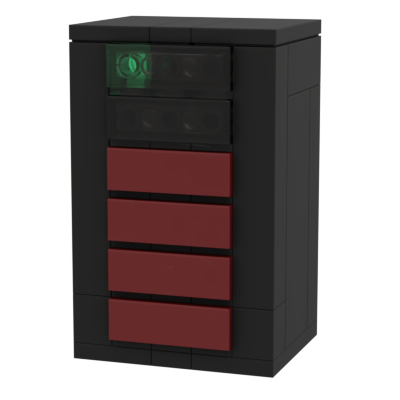
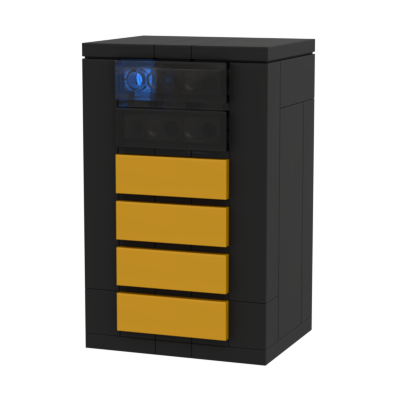
added items, pics for each engine modified funcs

Changed region(s): [[0.15, 0.03, 0.81, 0.96], [0.54, 0.15, 0.57, 0.18], [0.48, 0.15, 0.51, 0.18]]

diff --git a/scripts/thething.js b/scripts/thething.js
@@ -8,7 +8,7 @@
 // array of images pulled from a JSON input.
 
 // ---------- START OF JSON CONSTANT DATA 
-aImages=[{"fqdn":"msx4182lv.virtcomp.net","location":"DC1","engine_type":"virtualserver","storage":10,"storage_used":4.4,"associated_seals":"9958, 25151","version":"5.0.0.0.0","uuid":"agbcs-4256-qskal-mm","placeholder1":"","placeholder2":"","placeholder3":"","rsa_enabled":"TRUE"},{"fqdn":"msx4183lv.virtcomp.net","location":"DC2","engine_type":"target","storage":10,"storage_used":2.5,"associated_seals":"23589,11893, 12584","version":"5.0.0.0.0","uuid":"jksxx-9992-qqpza-lm","placeholder1":"","placeholder2":"","placeholder3":"","rsa_enabled":"TRUE"},{"fqdn":"ata2727av.virtcomp.net","location":"SKN","engine_type":"virtualserver","storage":30,"storage_used":25,"associated_seals":"47223, 22546, 11455","version":"5.0.1.0.0","uuid":"mxskx-1961-ppalv-lb","placeholder1":"","placeholder2":"","placeholder3":"","rsa_enabled":"FALSE"},{"fqdn":"ata2728av.virtcomp.net","location":"SKN","engine_type":"target","storage":30,"storage_used":20,"associated_seals":"55213, 55874","version":"5.0.1.0.0","uuid":"agbcs-4256-qskal-mm","placeholder1":"","placeholder2":"","placeholder3":"","rsa_enabled":"TRUE"},{"fqdn":"seg1144sv.virtcomp.net","location":"AM1","engine_type":"masking","storage":1,"storage_used":"","associated_seals":11023,"version":"5.1.0.1.0","uuid":"jksxx-9992-qqpza-lm","placeholder1":"","placeholder2":"","placeholder3":"","rsa_enabled":"FALSE"},{"fqdn":"seg1145sv.virtcomp.net","location":"AM2","engine_type":"masking","storage":1,"storage_used":"","associated_seals":114500,"version":"5.0.0.1.0","uuid":"mxskx-1961-ppalv-lb","placeholder1":"","placeholder2":"","placeholder3":"","rsa_enabled":"FALSE"},{"fqdn":"aws.cloud1.virtualcomp.net","location":"AWS","engine_type":"virtualserver","storage":30,"storage_used":15,"associated_seals":107615,"version":"5.0.0.0.2","uuid":"agbcs-4256-qskal-mm","placeholder1":"","placeholder2":"","placeholder3":"","rsa_enabled":"FALSE"},{"fqdn":"aws.cloud2.virtualcomp.net","location":"AWS","engine_type":"target","storage":10,"storage_used":7.3,"associated_seals":"115142, 25998","version":"5.0.1.0.0","uuid":"jksxx-9992-qqpza-lm","placeholder1":"","placeholder2":"","placeholder3":"","rsa_enabled":"TRUE"},{"fqdn":"azr.cloud1.virtualcomp.net","location":"AZR","engine_type":"target","storage":20,"storage_used":16.1,"associated_seals":"11545, 55869","version":"5.1.0.1.0","uuid":"mxskx-1961-ppalv-lb","placeholder1":"","placeholder2":"","placeholder3":"","rsa_enabled":"FALSE"},{"fqdn":"azr.cloud2.virtualcomp.net","location":"AZR","engine_type":"masking","storage":1,"storage_used":"","associated_seals":33200,"version":"5.0.0.1.0","uuid":"agbcs-4256-qskal-mm","placeholder1":"","placeholder2":"","placeholder3":"","rsa_enabled":"FALSE"},{"fqdn":"gcs.cloud1.virtualcom.net","location":"GCS","engine_type":"masking","storage":1,"storage_used":"","associated_seals":33200,"version":"5.0.0.0.2","uuid":"jksxx-9992-qqpza-lm","placeholder1":"","placeholder2":"","placeholder3":"","rsa_enabled":"FALSE"},{"fqdn":"gcs.cloud2.virtualcom.net","location":"GCS","engine_type":"virtualserver","storage":200,"storage_used":112.3,"associated_seals":150042,"version":"5.0.1.0.0","uuid":"mxskx-1961-ppalv-lb","placeholder1":"","placeholder2":"","placeholder3":"","rsa_enabled":"TRUE"},{"fqdn":"seg1111sv.virtcomp.net","location":"AM1","engine_type":"virtualserver","storage":200,"storage_used":145.6,"associated_seals":150042,"version":"5.1.0.1.0","uuid":"agbcs-4256-qskal-mm","placeholder1":"","placeholder2":"","placeholder3":"","rsa_enabled":"FALSE"},{"fqdn":"seg1110sv.virtcomp.net","location":"AM2","engine_type":"target","storage":50,"storage_used":23.9,"associated_seals":"12546, 89661","version":"5.0.0.1.0","uuid":"jksxx-9992-qqpza-lm","placeholder1":"","placeholder2":"","placeholder3":"","rsa_enabled":"TRUE"},{"fqdn":"seg3544sv.virtcomp.net","location":"AM1","engine_type":"masking","storage":1,"storage_used":"","associated_seals":"115142, 99584","version":"5.0.0.0.2","uuid":"mxskx-1961-ppalv-lb","placeholder1":"","placeholder2":"","placeholder3":"","rsa_enabled":"TRUE"},{"fqdn":"seg3545sv.virtcomp.net","location":"AM2","engine_type":"virtualserver","storage":50,"storage_used":12.8,"associated_seals":14145,"version":"5.0.1.0.0","uuid":"agbcs-4256-qskal-mm","placeholder1":"","placeholder2":"","placeholder3":"","rsa_enabled":"TRUE"},{"fqdn":"seg1201sv.virtcomp.net","location":"AM1","engine_type":"target","storage":50,"storage_used":12.3,"associated_seals":114589,"version":"5.1.0.1.0","uuid":"jksxx-9992-qqpza-lm","placeholder1":"","placeholder2":"","placeholder3":"","rsa_enabled":"FALSE"},{"fqdn":"seg1202sv.virtcomp.net","location":"AM2","engine_type":"masking","storage":1,"storage_used":"","associated_seals":"","version":"5.0.0.1.0","uuid":"mxskx-1961-ppalv-lb","placeholder1":"","placeholder2":"","placeholder3":"","rsa_enabled":"FALSE"},{"fqdn":"azr.cloud3.virtualcomp.net","location":"AZR","engine_type":"target","storage":200,"storage_used":127,"associated_seals":11242,"version":"5.0.0.0.2","uuid":"agbcs-4256-qskal-mm","placeholder1":"","placeholder2":"","placeholder3":"","rsa_enabled":"FALSE"},{"fqdn":"azr.cloud4.virtualcomp.net","location":"AZR","engine_type":"masking","storage":1,"storage_used":"","associated_seals":11542,"version":"5.1.0.1.0","uuid":"jksxx-9992-qqpza-lm","placeholder1":"","placeholder2":"","placeholder3":"","rsa_enabled":"FALSE"},{"fqdn":"msx2421lv.virtcomp.net","location":"DC2","engine_type":"virtualserver","storage":50,"storage_used":12.3,"associated_seals":11542,"version":"5.0.0.1.0","uuid":"mxskx-1961-ppalv-lb","placeholder1":"","placeholder2":"","placeholder3":"","rsa_enabled":"FALSE"},{"fqdn":"msx2420lv.virtcomp.net","location":"DC1","engine_type":"masking","storage":1,"storage_used":"","associated_seals":11242,"version":"5.0.0.0.2","uuid":"mxskx-1961-ppalv-lb","placeholder1":"","placeholder2":"","placeholder3":"","rsa_enabled":"FALSE"}]
+const aImages=[{"fqdn":"msx4182lv.virtcomp.net","location":"DC1","engine_type":"virtualserver","storage":10,"storage_used":4.4,"associated_seals":"9958, 25151","version":"5.0.0.0.0","uuid":"agbcs-4256-qskal-mm","placeholder1":"","placeholder2":"","placeholder3":"","rsa_enabled":"TRUE"},{"fqdn":"msx4183lv.virtcomp.net","location":"DC2","engine_type":"target","storage":10,"storage_used":2.5,"associated_seals":"23589,11893, 12584","version":"5.0.0.0.0","uuid":"jksxx-9992-qqpza-lm","placeholder1":"","placeholder2":"","placeholder3":"","rsa_enabled":"TRUE"},{"fqdn":"ata2727av.virtcomp.net","location":"SKN","engine_type":"virtualserver","storage":30,"storage_used":25,"associated_seals":"47223, 22546, 11455","version":"5.0.1.0.0","uuid":"mxskx-1961-ppalv-lb","placeholder1":"","placeholder2":"","placeholder3":"","rsa_enabled":"FALSE"},{"fqdn":"ata2728av.virtcomp.net","location":"SKN","engine_type":"target","storage":30,"storage_used":20,"associated_seals":"55213, 55874","version":"5.0.1.0.0","uuid":"agbcs-4256-qskal-mm","placeholder1":"","placeholder2":"","placeholder3":"","rsa_enabled":"TRUE"},{"fqdn":"seg1144sv.virtcomp.net","location":"AM1","engine_type":"masking","storage":1,"storage_used":"","associated_seals":11023,"version":"5.1.0.1.0","uuid":"jksxx-9992-qqpza-lm","placeholder1":"","placeholder2":"","placeholder3":"","rsa_enabled":"FALSE"},{"fqdn":"seg1145sv.virtcomp.net","location":"AM2","engine_type":"masking","storage":1,"storage_used":"","associated_seals":114500,"version":"5.0.0.1.0","uuid":"mxskx-1961-ppalv-lb","placeholder1":"","placeholder2":"","placeholder3":"","rsa_enabled":"FALSE"},{"fqdn":"aws.cloud1.virtualcomp.net","location":"AWS","engine_type":"virtualserver","storage":30,"storage_used":15,"associated_seals":107615,"version":"5.0.0.0.2","uuid":"agbcs-4256-qskal-mm","placeholder1":"","placeholder2":"","placeholder3":"","rsa_enabled":"FALSE"},{"fqdn":"aws.cloud2.virtualcomp.net","location":"AWS","engine_type":"target","storage":10,"storage_used":7.3,"associated_seals":"115142, 25998","version":"5.0.1.0.0","uuid":"jksxx-9992-qqpza-lm","placeholder1":"","placeholder2":"","placeholder3":"","rsa_enabled":"TRUE"},{"fqdn":"azr.cloud1.virtualcomp.net","location":"AZR","engine_type":"target","storage":20,"storage_used":16.1,"associated_seals":"11545, 55869","version":"5.1.0.1.0","uuid":"mxskx-1961-ppalv-lb","placeholder1":"","placeholder2":"","placeholder3":"","rsa_enabled":"FALSE"},{"fqdn":"azr.cloud2.virtualcomp.net","location":"AZR","engine_type":"masking","storage":1,"storage_used":"","associated_seals":33200,"version":"5.0.0.1.0","uuid":"agbcs-4256-qskal-mm","placeholder1":"","placeholder2":"","placeholder3":"","rsa_enabled":"FALSE"},{"fqdn":"gcs.cloud1.virtualcom.net","location":"GCS","engine_type":"masking","storage":1,"storage_used":"","associated_seals":33200,"version":"5.0.0.0.2","uuid":"jksxx-9992-qqpza-lm","placeholder1":"","placeholder2":"","placeholder3":"","rsa_enabled":"FALSE"},{"fqdn":"gcs.cloud2.virtualcom.net","location":"GCS","engine_type":"virtualserver","storage":200,"storage_used":112.3,"associated_seals":150042,"version":"5.0.1.0.0","uuid":"mxskx-1961-ppalv-lb","placeholder1":"","placeholder2":"","placeholder3":"","rsa_enabled":"TRUE"},{"fqdn":"seg1111sv.virtcomp.net","location":"AM1","engine_type":"virtualserver","storage":200,"storage_used":145.6,"associated_seals":150042,"version":"5.1.0.1.0","uuid":"agbcs-4256-qskal-mm","placeholder1":"","placeholder2":"","placeholder3":"","rsa_enabled":"FALSE"},{"fqdn":"seg1110sv.virtcomp.net","location":"AM2","engine_type":"target","storage":50,"storage_used":23.9,"associated_seals":"12546, 89661","version":"5.0.0.1.0","uuid":"jksxx-9992-qqpza-lm","placeholder1":"","placeholder2":"","placeholder3":"","rsa_enabled":"TRUE"},{"fqdn":"seg3544sv.virtcomp.net","location":"AM1","engine_type":"masking","storage":1,"storage_used":"","associated_seals":"115142, 99584","version":"5.0.0.0.2","uuid":"mxskx-1961-ppalv-lb","placeholder1":"","placeholder2":"","placeholder3":"","rsa_enabled":"TRUE"},{"fqdn":"seg3545sv.virtcomp.net","location":"AM2","engine_type":"virtualserver","storage":50,"storage_used":12.8,"associated_seals":14145,"version":"5.0.1.0.0","uuid":"agbcs-4256-qskal-mm","placeholder1":"","placeholder2":"","placeholder3":"","rsa_enabled":"TRUE"},{"fqdn":"seg1201sv.virtcomp.net","location":"AM1","engine_type":"target","storage":50,"storage_used":12.3,"associated_seals":114589,"version":"5.1.0.1.0","uuid":"jksxx-9992-qqpza-lm","placeholder1":"","placeholder2":"","placeholder3":"","rsa_enabled":"FALSE"},{"fqdn":"seg1202sv.virtcomp.net","location":"AM2","engine_type":"masking","storage":1,"storage_used":"","associated_seals":"","version":"5.0.0.1.0","uuid":"mxskx-1961-ppalv-lb","placeholder1":"","placeholder2":"","placeholder3":"","rsa_enabled":"FALSE"},{"fqdn":"azr.cloud3.virtualcomp.net","location":"AZR","engine_type":"target","storage":200,"storage_used":127,"associated_seals":11242,"version":"5.0.0.0.2","uuid":"agbcs-4256-qskal-mm","placeholder1":"","placeholder2":"","placeholder3":"","rsa_enabled":"FALSE"},{"fqdn":"azr.cloud4.virtualcomp.net","location":"AZR","engine_type":"masking","storage":1,"storage_used":"","associated_seals":"11542, 11125","version":"5.1.0.1.0","uuid":"jksxx-9992-qqpza-lm","placeholder1":"","placeholder2":"","placeholder3":"","rsa_enabled":"FALSE"},{"fqdn":"msx2421lv.virtcomp.net","location":"DC2","engine_type":"virtualserver","storage":50,"storage_used":12.3,"associated_seals":11542,"version":"5.0.0.1.0","uuid":"mxskx-1961-ppalv-lb","placeholder1":"","placeholder2":"","placeholder3":"","rsa_enabled":"FALSE"},{"fqdn":"msx2420lv.virtcomp.net","location":"DC1","engine_type":"masking","storage":1,"storage_used":"","associated_seals":30125,"version":"5.0.0.0.2","uuid":"mxskx-1961-ppalv-lb","placeholder1":"","placeholder2":"","placeholder3":"","rsa_enabled":"FALSE"},{"fqdn":"nin2324ln.virtcomp.net","location":"DC1","engine_type":"virtualserver","storage":175,"storage_used":94.3,"associated_seals":"99254, 23655","version":"5.0.0.0.2","uuid":"mxskx-1961-ppalv-lb","placeholder1":"","placeholder2":"","placeholder3":"","rsa_enabled":""},{"fqdn":"nin2323ln.virtcomp.net","location":"DC2","engine_type":"masking","storage":1,"storage_used":"","associated_seals":"","version":"","uuid":"","placeholder1":"","placeholder2":"","placeholder3":"","rsa_enabled":""},{"fqdn":"nin2326ln.virtcomp.net","location":"SKN","engine_type":"masking","storage":1,"storage_used":"","associated_seals":23211,"version":"5.0.0.0.2","uuid":"mxskx-1961-ppalv-lb","placeholder1":"","placeholder2":"","placeholder3":"","rsa_enabled":""},{"fqdn":"nin2325ln.virtcomp.net","location":"AU1","engine_type":"virtualserver","storage":300,"storage_used":251.5,"associated_seals":889624,"version":"5.0.1.0.0","uuid":"agbcs-4256-qskal-mm","placeholder1":"","placeholder2":"","placeholder3":"","rsa_enabled":""}]
 // ---------- END OF JSON CONSTANT DATA 
 
 // selection color constant
@@ -27,16 +27,23 @@ let vCSSClass = "";
 let aSelectedTemp = localStorage.getItem("localSavedItems");
 let lFirstTime = "";
 let aSelected = [];
+let vNavMessage="Arrow keys move through pages. Esc dismisses windows and pop-ups.";
+let vTotalPages = Math.trunc(aImages.length/vItemsPerPage)+1;
 
 // functions    ----------------------------------------------------------
 
 function getIcon(vEngineType="generic"){
     let vResponse = "";
-    if(vEngineType == "masking"){
+    if (vEngineType == "masking") {
         vResponse="./assets/images/engine_mas.png"
-    }else{
+    } else if (vEngineType == "virtualserver") {
+        vResponse="./assets/images/engine_vir.png"
+    } else if (vEngineType == "target") {
+        vResponse="./assets/images/engine_tgt.png"
+    } else {
         vResponse="./assets/images/engine_gen.png"
     }
+
     return vResponse
 }
 
@@ -46,12 +53,12 @@ function doPrevious(){
         page--;
     } else {
         // control pages by comapring the trunc and round results
-        page = Math.trunc(aImages.length/vItemsPerPage);
+        page = vTotalPages-1;
     }
-    document.getElementById("page-number").innerHTML=`page: ${page+1}`;
+    document.getElementById("page-number").innerHTML=`page: ${page+1} of ${vTotalPages}`;
     displayInThumbs(page*vItemsPerPage,(page*vItemsPerPage)+vItemsPerPage);
     randomArrayAccess();
-    document.getElementById("activityShow").innerHTML="Hit R to display a random item. Arrow keys move through pages. Holding ctrl+click selects multiple items.";
+    document.getElementById("activityShow").innerHTML=`${vNavMessage}`;
 }
 
 function doAllItems() {
@@ -105,13 +112,13 @@ function doNext(){
         page=0;
     }
     //update the page display box
-    document.getElementById("page-number").innerHTML=`page: ${page+1}`;
+    document.getElementById("page-number").innerHTML=`page: ${page+1} of ${vTotalPages}`;
     // generate the gallery thumbs based on the calculations for page number
     displayInThumbs(page*vItemsPerPage,(page*vItemsPerPage)+vItemsPerPage);
     //write the bottom signature of the page
     randomArrayAccess();
     // print the special message to guide the user
-    document.getElementById("activityShow").innerHTML="Hit R to display a random item. Arrow keys move through pages. Holding Ctrl+click selects multiple items."
+    document.getElementById("activityShow").innerHTML=`${vNavMessage}`
 }
 
 function doRecoverPage(){
@@ -238,7 +245,7 @@ function doCartBox() {
     if (aSelected.length != 0) {
         while (i != aSelected.lenght) {
             try{
-                itemInjection = `${itemInjection}<div><div id="cartmyitem${i}";" class=\"${lvCSSClass}\"><img id="cartthumb${i}" src=\'${getIcon(aSelected[i].engine_type)}\'><p class="reg-text" style="width: 95%;">${aSelected[i].fqdn}<br>type: ${aSelected[i].engine_type}<br>location: ${aSelected[i].location}<br></p><div style="display=inline;"><div class="flex-button" onclick="doRemoveFromCart(${i})">remove</div><div class="flex-button">check</div></div></div></div><br>`;
+                itemInjection = `${itemInjection}<div><div id="cartmyitem${i}";" class=\"${lvCSSClass}\"><img id="cartthumb${i}" src=\'${getIcon(aSelected[i].engine_type)}\'><p class="reg-text" style="width: 100%;"><b>${aSelected[i].fqdn}</b><br>type: ${aSelected[i].engine_type}<br>location: ${aSelected[i].location}<br></p><div style="display=inline;"><div class="flex-button" onclick="doRemoveFromCart(${i})">remove</div><div class="flex-button">check</div></div></div></div><br>`;
                 } // build the HTML string
             catch{
                 console.log("Maximum selection item array reached.");
@@ -256,7 +263,7 @@ function doCartBox() {
     document.getElementById("cartboxPopup").style.visibility="visible";
     document.getElementById("cartboxPopup").style.visibility="visible";
     document.getElementById("backLock").style.visibility="visible";
-    document.getElementById("cartboxPopup").innerHTML=`<h2>export.cart</h4special><div class="flex-item-cartbox" id="msgOfTheCartBox"></div><h5>contents</h5> ${itemInjection} <div class="flex-item-cartbox" id="msgOfTheCartBox1"></div><br><div id="checkoutCart" class="flex-button" onclick="doPopUp('#$%^@*~! <br> This function is not available yet.')"> Export data </div> <div class="flex-button" onclick="doEmptyCart()">Empty</div> <div id="closeButtonCart" class="flex-button">Hide</div>`;
+    document.getElementById("cartboxPopup").innerHTML=`<h2>export.cart</h2><div class="flex-item-cartbox" id="msgOfTheCartBox"></div><h5>contents</h5> ${itemInjection} <div class="flex-item-cartbox" id="msgOfTheCartBox1"></div><br><div id="checkoutCart" class="flex-button" onclick="doPopUp('#$%^@*~! <br> This function is not available yet.')"> Export data </div> <div class="flex-button" onclick="doEmptyCart()">Empty</div> <div id="closeButtonCart" class="flex-button">Hide</div>`;
     document.getElementById("closeButtonCart").addEventListener("click", function(){
         document.getElementById("cartboxPopup").style.visibility="hidden";
         document.getElementById("backLock").style.visibility="hidden";
@@ -324,7 +331,7 @@ function displayInThumbs(vStartIdx = 0, vEndIdx = 0, special=false){
         }
         if (special == false ){ // ask if it is a special box and set the class to the appropriate value
             vCSSClass = "flex-item-articles" // my class to be injected in the dynamically generated html
-            vButtonInject=`<div class="flex-button" id="button-return" onclick="dblClickStuff(${vStartIdx})">detail</div>`; // no button gets injected here.
+            vButtonInject=""; // no button gets injected here.
         } else {
             vCSSClass = "flex-item-articles-half-width" // my other class, used only for special objects
             vButtonInject='<div class="flex-button" id="button-return" onclick="doRecoverPage()">go back</div>'; // return to gallery button is added with this statement.
@@ -333,8 +340,11 @@ function displayInThumbs(vStartIdx = 0, vEndIdx = 0, special=false){
         let i=vStartIdx; // initialize my counter's local index in 0
         // now sweep my array accessing it by index
         while (i < vEndIdx) {
+            if (special == false ) {
+                vButtonInject=`<div class="flex-button" id="button-return" onclick="dblClickStuff(${i})">detail</div>`
+            }
             // accumulate the generated html in the variable
-            returnString = `${returnString}<div id="myitem${i}";" class=\"${vCSSClass}\"><img id="thumb${i}" src=\'${getIcon(aImages[i].engine_type)}\' ondblclick="dblClickStuff(${i})"><h4special> ${aImages[i].fqdn}<br>type: ${aImages[i].engine_type}<br>version: ${aImages[i].version}</h4special><div><div class="flex-button" id="button-return" onclick="addItem(${i})">add</div>${vButtonInject}</div></div>`; // build the HTML string
+            returnString = `${returnString}<div id="myitem${i}";" class=\"${vCSSClass}\"><img id="thumb${i}" src=\'${getIcon(aImages[i].engine_type)}\' ondblclick="dblClickStuff(${i})"><h4special> <b>${aImages[i].fqdn}</b><br>type: ${aImages[i].engine_type}<br>version: ${aImages[i].version}</h4special><div><div class="flex-button" id="button-return" onclick="addItem(${i})">add</div>${vButtonInject}</div></div>`; // build the HTML string
             /*            returnString = `${returnString}<div id="myitem${i}";" class=\"${vCSSClass}\"><img id="thumb${i}" src=\'${aImages[i].vPath}\' onclick="clickStuff(${i})" ondblclick="dblClickStuff(${i})"><h4special> ${aImages[i].fqdn}<br>type: ${aImages[i].engine_type}<br>Description: ${aImages[i].Info}</h4special><br><div><div class="flex-button" id="button-return" onclick="addItem(${i})">add</div>${vButtonInject}</div></div>`; // build the HTML string */
 
             i++; // increment for next idx
@@ -362,11 +372,12 @@ function clickStuff(vItemIndex){
 }
 
 function dblClickStuff(vItemIndex){
-    if (vIsCtrlDn == true) {
-        doPopUp(`This is element number ${vItemIndex} of the gallery.<br>The object's description is '${aImages[vItemIndex].engine_type}'. <br>'${aImages[vItemIndex].vPath}' is the path for the image. <br> Additional: ${aImages[vItemIndex].Info}`);
+    if (vIsCtrlDn == false) {
+        doSplashScreen(aImages[vItemIndex].fqdn,`asset type: ${aImages[vItemIndex].engine_type}<br>used: ${aImages[vItemIndex].storage_used}TB<br>installed: ${aImages[vItemIndex].storage}TB<br>location: ${aImages[vItemIndex].location}<br>rsa enabled: ${aImages[vItemIndex].rsa_enabled}<br>asset uuid: ${aImages[vItemIndex].uuid}<br>user seals: ${aImages[vItemIndex].associated_seals}`,false,0)
+        /*doPopUp(`This is element number ${vItemIndex} of the gallery.<br>The object's description is '${aImages[vItemIndex].engine_type}'. <br>'${aImages[vItemIndex].vPath}' is the path for the image. <br> Additional: ${aImages[vItemIndex].Info}`);*/
     }else{
         doClosePopUp();
-        document.getElementById("page-number").innerHTML=`page: ${vItemIndex}`;
+        document.getElementById("page-number").innerHTML=`item: ${vItemIndex}`;
         displayInThumbs(vItemIndex,vItemIndex+1,true); // builds the thumbs     
     }
 
@@ -434,7 +445,7 @@ document.getElementById("button-all").addEventListener("click", function(){
     doAllItems();
 });
 document.getElementById("page-number").addEventListener("click", function(){
-    doPopUp("Page number or item number are displayed here.");
+    console.log("Don't just click stuff.")
 });
 
 //BOTTOM BUTTON LISTENERS

diff --git a/css/main.css b/css/main.css
@@ -124,14 +124,14 @@ h1 {
 h2 {
   color: white;
   background-color: rgb(0, 64, 64);
-  font-family: "VAGRounded";
+  font-family: "Roboto";
   font-weight: 100;
   line-height: 1.9rem;
   font-size: 1.2rem;
-  padding-left: 1vw;
-  padding-top: 0.8vh;
-  padding-bottom: 0.8vh;
-  padding-right: 0.1vw;
+  padding-left: 0.6rem;
+  padding-top: 0.6rem;
+  padding-bottom: 0.6rem;
+  padding-right: 0.6rem;
   text-align: left;
   margin: 0rem;
   border-radius: 0px;
@@ -293,7 +293,7 @@ a:hover {
   display: flex;
   background-color: rgba(219, 231, 236, 0.5);
   width: 17vw;
-  border-radius: 15px;
+  border-radius: 7px;
   word-wrap: normal;
   padding: 0.3rem;
   flex-direction: row;
@@ -335,7 +335,7 @@ a:hover {
   flex-direction: row;
   height: auto;
   width: fit-content;
-  border-radius: 15px;
+  border-radius: 7px;
   word-wrap: normal;
   align-self: center;
   border: none;
@@ -443,7 +443,7 @@ a:hover {
   position: fixed;
   left: 0%;
   top: 3.5rem;
-  background-color: rgba(128, 128, 128, 0.75);
+  background-color: rgba(192, 192, 192, 0.999);
   border: none;
   overflow-wrap: break-word;
 }
@@ -464,7 +464,7 @@ a:hover {
   position: fixed;
   left: 0rem;
   bottom: 0rem;
-  background-color: rgba(255, 255, 255, 0.75);
+  background-color:  rgba(192, 192, 192, 0.75);
   border: none;
   overflow-wrap: break-word;
 }
@@ -629,14 +629,14 @@ a:hover {
 
 .flex-button {
   display: inline-block;
-  height: 1.1rem;
+  height: 0.8rem;
   width:fit-content;
   align-self: flex-end;
   align-content: center;
   margin: .3rem;
   border-radius: 5px;
   flex-direction: row;
-  font-size: 0.9rem;
+  font-size: 0.7rem;
   justify-content: center !important;
   font-family: "Roboto";
   padding: .35rem;
@@ -749,7 +749,7 @@ a:hover {
     display: flex;
     background-color: rgba(219, 231, 236, 0.5);
     width: 95vw !important;
-    border-radius: 15px;
+
     word-wrap: normal;
     padding: 0.3rem;
     flex-direction: column;
@@ -765,7 +765,6 @@ a:hover {
     display: flex;
     background-color: rgba(219, 231, 236, 0.5);
     width: 85vw;
-    border-radius: 15px;
     word-wrap: normal;
     padding: 0.3rem;
     flex-direction: row;
@@ -783,7 +782,6 @@ a:hover {
     display: flex;
     background-color: rgba(219, 231, 236, 0.5);
     width: 43vw;
-    border-radius: 15px;
     word-wrap: normal;
     padding: 0.3rem;
     flex-direction: row;
@@ -800,7 +798,6 @@ a:hover {
     display: flex;
     background-color: rgba(219, 231, 236, 0.5);
     width: 38vw;
-    border-radius: 15px;
     word-wrap: normal;
     padding: 0.3rem;
     flex-direction: row;
@@ -816,7 +813,7 @@ a:hover {
     display: flex;
     background-color: rgba(219, 231, 236, 0.5);
     width: 25vw;
-    border-radius: 15px;
+
     word-wrap: normal;
     padding: 0.3rem;
     flex-direction: row;
@@ -832,7 +829,6 @@ a:hover {
     display: flex;
     background-color: rgba(219, 231, 236, 0.5);
     width: 27vw;
-    border-radius: 15px;
     word-wrap: normal;
     padding: 0.3rem;
     flex-direction: row;

diff --git a/index.html b/index.html
@@ -6,7 +6,7 @@
     <meta name="viewport" content="width=device-width, initial-scale=1.0">
     <link rel="stylesheet" href="./css/main.css" head="">
     <link rel="shortcut icon" href="./assets/images/favicon.png" type="image/x-icon">
-    <title>dx-inventory</title>
+    <title>serv.inventory</title>
   </head>
   <body>
 
@@ -24,11 +24,11 @@
       <div class="flex-button" id="button-add-selection">
         prev
       </div>
-      <div class="flex-button" id="button-all">
-        *
-      </div>
       <div class="flex-button" id="button-by-page">
         next
+      </div>
+      <div class="flex-button" id="button-all">
+        *
       </div>
       <div class="flex-button" id="button-cart">
         cart (0)
